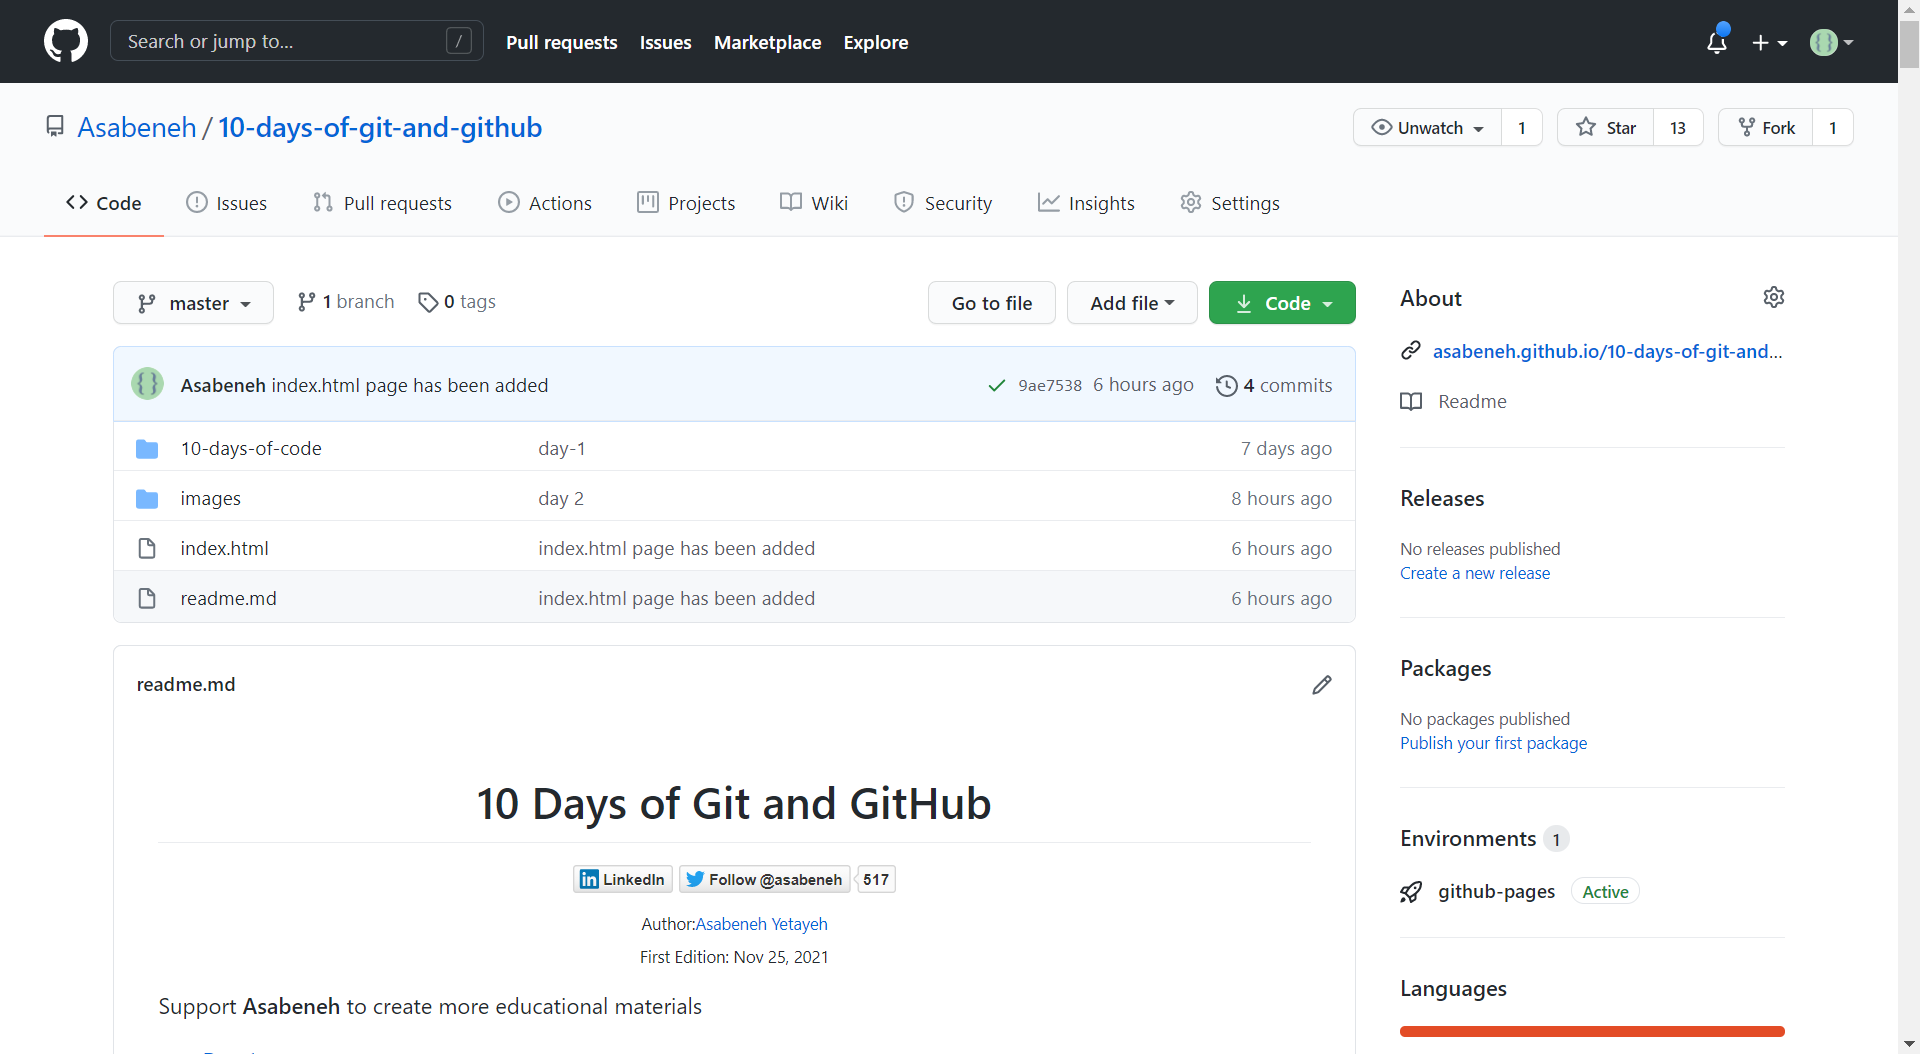
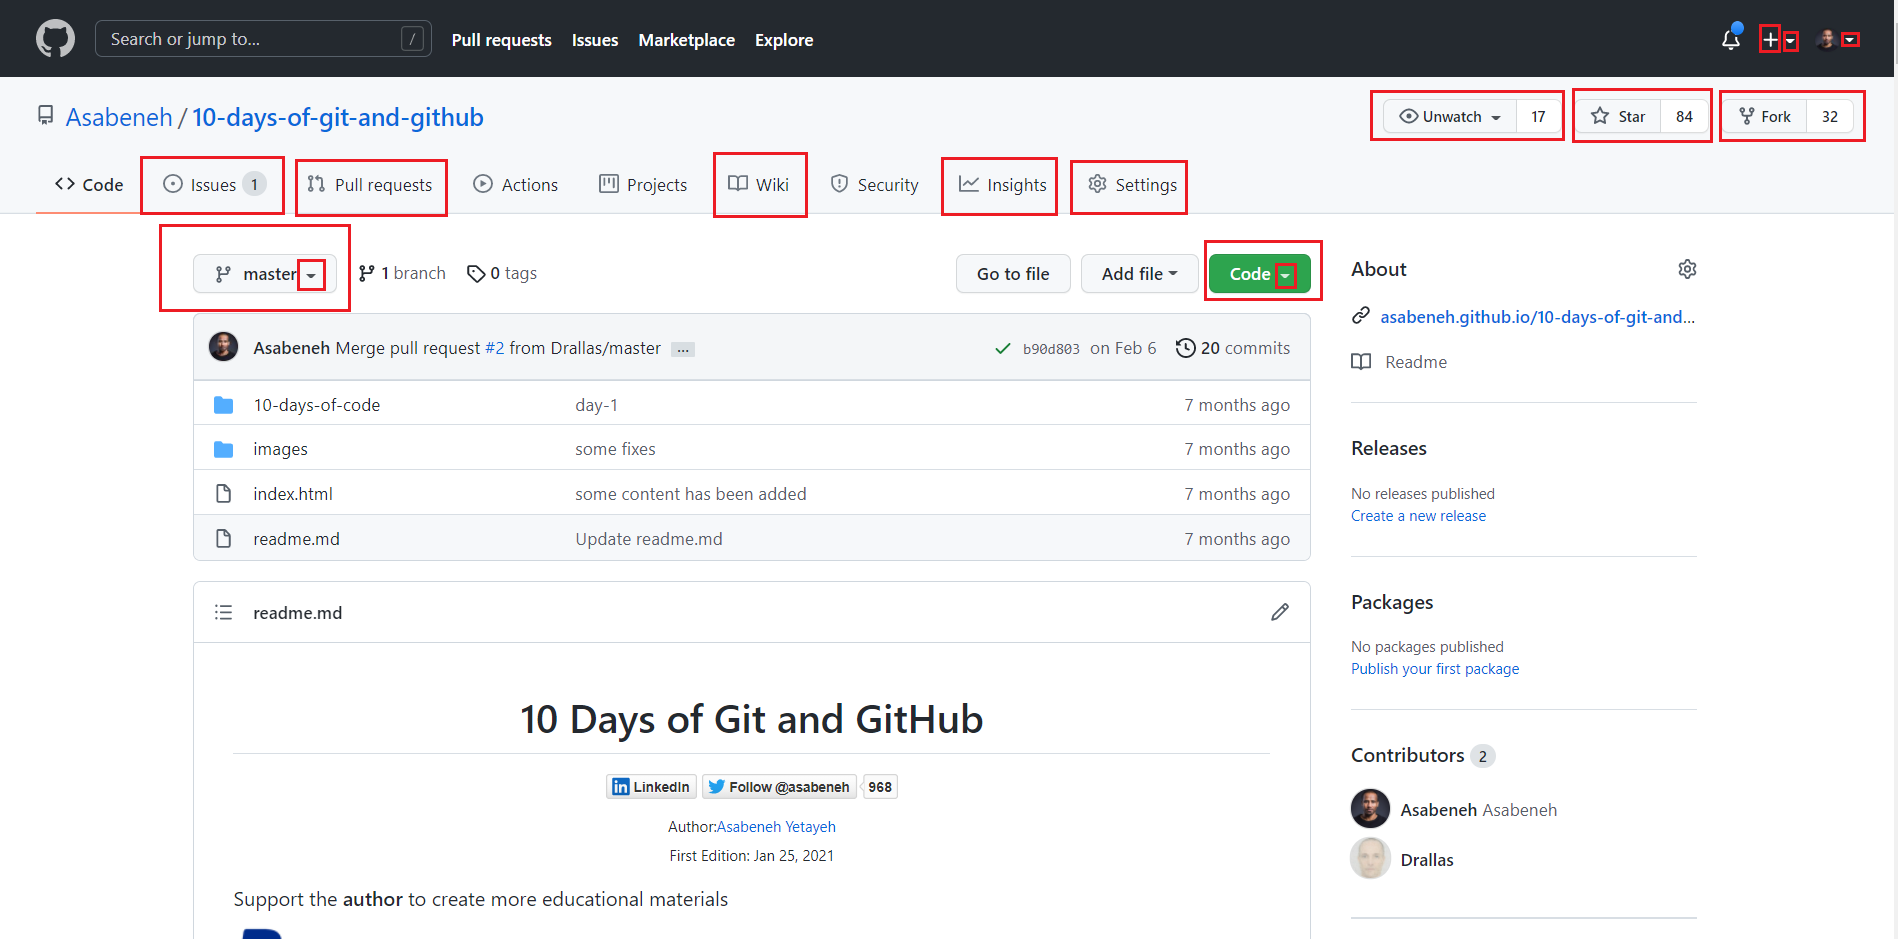
collaborate by adding learning materials

diff --git a/readme.md b/readme.md
@@ -501,9 +501,15 @@ Your commit message has to be associated with the changes or modifications you m
 
 ### 9. Git log
 
-The _git log_ command allows knowing the commit history of the project
+The _git log_ command allows knowing the commit history of the project. It list down all the commit history
 
-### 10. Git check out
+### 10. Git log --oneline
+The **git log --oneline** command allows to list minified log history
+
+### 11. Git log -<limit>
+For instance, this  **git log --5** command list 5 commit history.
+
+### 12. Git check out
 
 We can identify the commit id of each commit using the _git log_ command. Then we can make use of this id to retire any previous commit.
 
@@ -511,9 +517,9 @@ We can identify the commit id of each commit using the _git log_ command. Then w
 git checkout commit-id
 ```
 
-### 11. Creating a branch
+### 13. Creating a branch
 
-You can create a copy of the master using a branch. You built an awesome application. You like to keep this awesome application as it is but you like to add some features.
+We can create a copy of the master(main) using a branch. You built an awesome application. You like to keep this awesome application as it is but you like to add some features.
 This is the time, you need branching the master. The branch is the copy of the master at branching instant. After branching, the branch and the master don't see each other. You can create as many branches as you want.
 
 To create a branch:
@@ -521,10 +527,8 @@ To create a branch:
 - Only to create branch
 
 ```shell
-    git checkout  branch-name
+    git branch  branch-name
 ```
-
-To create branch:
 
 - To create and checkout to the branch at the same time:
 
@@ -545,18 +549,18 @@ To list down all the branches:
     git branch
 ```
 
-### 12. Create account on GitHub
+### 14. Create account on GitHub
 
 Now, create an account on GitHub and sign in using your emails and password
 
 - GitHub
   Sign up on [GitHub](https://github.com/)
 
-### 13. Create Repository on GitHub
+### 15. Create Repository on GitHub
 
 Go to [GitHub](https://github.com/) and create a repository by click the plus icon on the top right corner.
 
-### 14. Connecting git with remote repository
+### 16. Connecting git with remote repository
 
 In this step, you will connect your local git repository with your remote GitHub repository
 
@@ -567,7 +571,7 @@ In this step, you will connect your local git repository with your remote GitHub
 The word origin could be any word. It is a means to assign the repository URL.
 If this is step is passed without error, you are ready to push it to your remote GitHub repository. Push means actually uploading what you have on your local to remote repository.
 
-### 15. Push
+### 17. Push
 
 Before you push(upload), please commits any changes and if it is ready push your files to your remote GitHub repository using the following command.
 
@@ -575,7 +579,7 @@ Before you push(upload), please commits any changes and if it is ready push your
     git push -u origin master
 ```
 
-### 16. Merge
+### 18. Merge
 
 When you work on an individual project or a team project you may have different branches. Mostly you will have a master(main), develop and other branches. Then you will merge other branches to your develop and your develop to master. It is possible to merge any branches. For instance, lets merge feature branch to develop
 
@@ -586,7 +590,7 @@ When you work on an individual project or a team project you may have different 
 
 Using the above code, now the develop and feature branches do have the same content
 
-### 17. Pull
+### 19. Pull
 
 If your team merges new features to the develop, then you will be behind, now you need to make your project to the current stage by pulling from develop
 
@@ -603,7 +607,7 @@ If your team merges new features to the develop, then you will be behind, now yo
 
 If you are a sole developer that works by yourself then you can test the _git pull_ command by modifying some of the files from your remote repository and pull it using the _git pull_ command.
 
-### 18. Git clone
+### 20. Git clone
 
 GitHub allows to download a project using a URL. It is the same as downloading by clicking a download button from a website. To clone, go to desktop or any location and write the command _git clone URL_.
 
@@ -614,7 +618,7 @@ Asabeneh@DESKTOP-KGC1AKC MINGW64 ~$ cd Desktop
 Asabeneh@DESKTOP-KGC1AKC MINGW64 ~/Desktop$ git clone https://github.com/Asabeneh/10-days-of-git-and-github.git
 ```
 
-### 19. Rename Branch
+### 21. Rename Branch
 
 To rename a current branch
 
@@ -628,7 +632,7 @@ To rename any branch
 git branch -m <oldname> <newname>
 ```
 
-### 20. Deleting Branch
+### 22. Deleting Branch
 
 To delete a local branch
 
@@ -649,7 +653,7 @@ or
 git push <remote_name> --delete <branch_name>
 ```
 
-### 21. The .gitignore file
+### 23. The .gitignore file
 
 Any file you committed could be pushed to a remote repository but sometimes you may not want to push everything you have on your local repository. For instance sensitive data such as email, password, bank account, API Keys and others. Therefore, any files or folders that is listed on the .ignore file will not be tracked by Git. Create a .ignore file on the top level of your project directory, on this file put file names or folder you would like to ignore
 
@@ -662,6 +666,14 @@ example.txt
 sensitive-info.txt
 ```
 
+### 24 Forking
+A forking is a process of owning other repository. After you clicked on fork button of a certain repository you will see that that repository became in your repository list. You can try by clicking the fork button on this repository. 
+
+Every repository that has some content in it has an active fork button on the right top corner. 
+![fork](./images/fork.png)
+
+After forking, we can clone the repository and work on the cloned version of the project. After modifiying the original we can push to the forked verion of the repository. In addition, we can send a pull request to the original repo to contribute on the project.
+
 _Congratulations! Now, you have a solid foundation of Git and GitHub_
 
 ## Git cheat sheet:
@@ -672,7 +684,6 @@ Here you have the basic git commands which might be useful:
 git --version     # Check the version
 git help          # Get help from git
 git help commit   # Get help for the commit command
-
 git config        # Get information about configuration
 git config --list # Check all what is configured
 git config --global user.name "username" # Configuring git user name
@@ -690,6 +701,8 @@ git commit -m "commit message" # Write a commit message after staging
 git commit -am "commit message" # Grab everything & skip the stage process
 
 git log  # See the history on the repository
+git log --oneline
+git log -<limit> 
 git log --author ="name" # To check change by specific user
 git log --graph # Visualize the history
 
@@ -709,13 +722,19 @@ git checkout <commit-id> -- filename #
 git rm filename1 # Delete one tracked file
 git mv filename1 filename2 # Delete tracked file(s)
 git mv filename1 foldername/filename1 # Move file to a folder
+
+git branch # to list branches
+git branch branch-name # to create a branch
+git checkout branch-name # to checkout to a certain branch
+git checkout -b branch-name # to create a branch and checkout at the same time
+git merge branch-name # to merge a branch to the current branch
 ```
 
 # Day 3
 
 ## Git repository user interface features
 
-Familiarize yourself to GitHub account and repository available features.
+Familiarize yourself with your GitHub account and available repository features.
 Git has account setting and repository setting. Navigate through the available features.
 
 Check the available repository features by clicking each buttons.
@@ -723,6 +742,10 @@ Check the available repository features by clicking each buttons.
 ![](./images/github-repository-ui_1.png)
 
 Check what is available on your GitHub account settings
+- watch this repository
+- Give start to this repository
+- fork this repository
+- clonge this repository
 
 ![](./images/github-repository-ui_2.png)
 
@@ -756,16 +779,34 @@ Follow this [link](https://guides.github.com/features/mastering-markdown/) to le
 
 ## GitHub wiki
 
-Every GitHub repository has a wiki page. A wiki page allows you to write or document.
+Every GitHub public repository has a wiki page. A wiki page allows you to write or document.
 ![](./images/wiki.png)
 
 # Day 6
 
-## Advanced git features
+## Collaborating on GitHub
+You can learn how to collaborate by adding some best educational resouces link in the category below
+#### Development
+Front End
+- HTML
+- CSS
+- JavaScript
+- Sass
+- React
+- Redux
+Back End
+- Node
+- MongoDB
+- SQL
+#### Data Analysis, Scicene
+#### Mobile App Development
+#### Cloud 
+### DevOps
+#### Machine Learning
 
 # Day 7
 
-## Collaborating on GitHub
+## Advanced git features
 
 # Day 8
 
